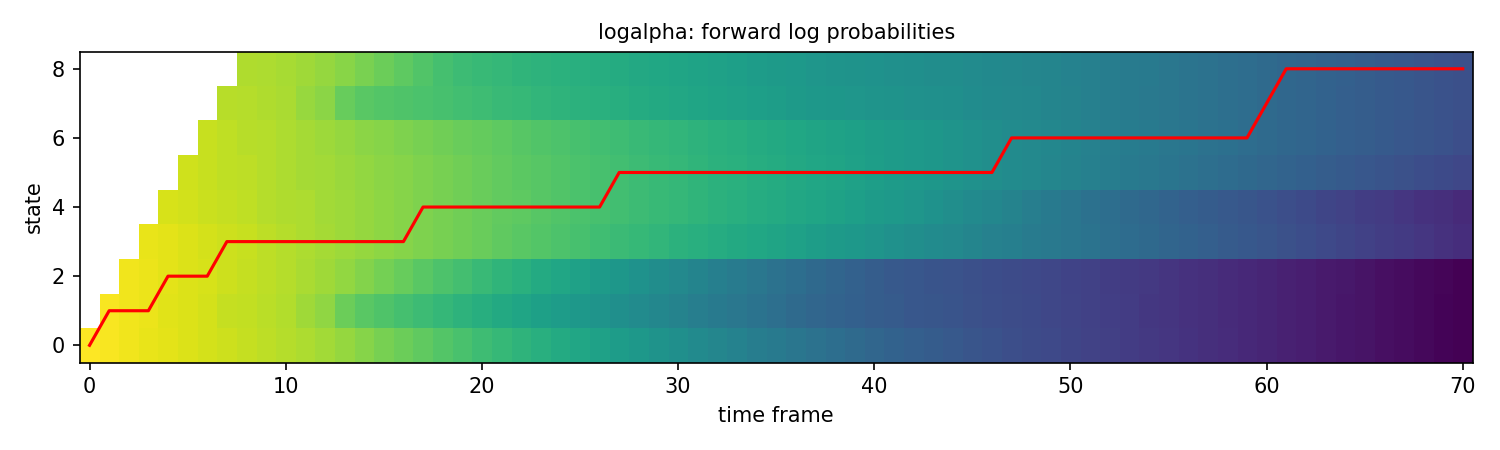
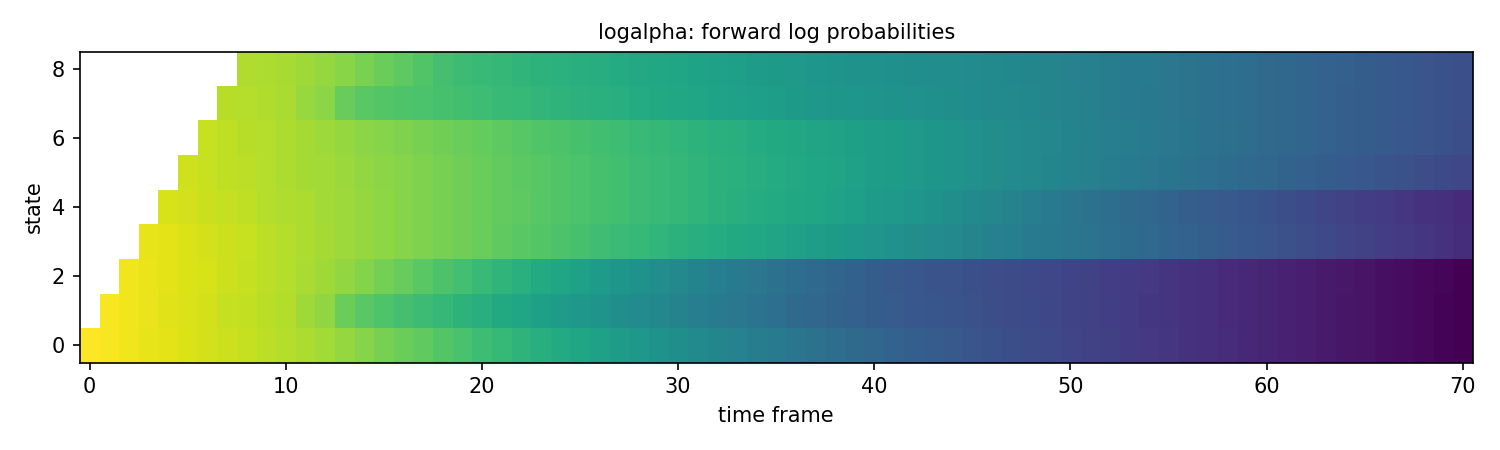
Quick fix for forward heat map

diff --git a/lab2/test_lab2.py b/lab2/test_lab2.py
@@ -34,7 +34,7 @@ def plot_example_results(example, obsloglik=None, log_alpha=None, log_beta=None,
         plt.ylabel(ylabel)
         plt.xlabel("time frame")
 
-        if (("logalpha" in title) or ("loggamma" in title)) and (viterbi_path is not None):
+        if ("loggamma" in title) and (viterbi_path is not None):
             plt.plot(viterbi_path, color='red', linewidth=1.5)
 
         plt.tight_layout()
